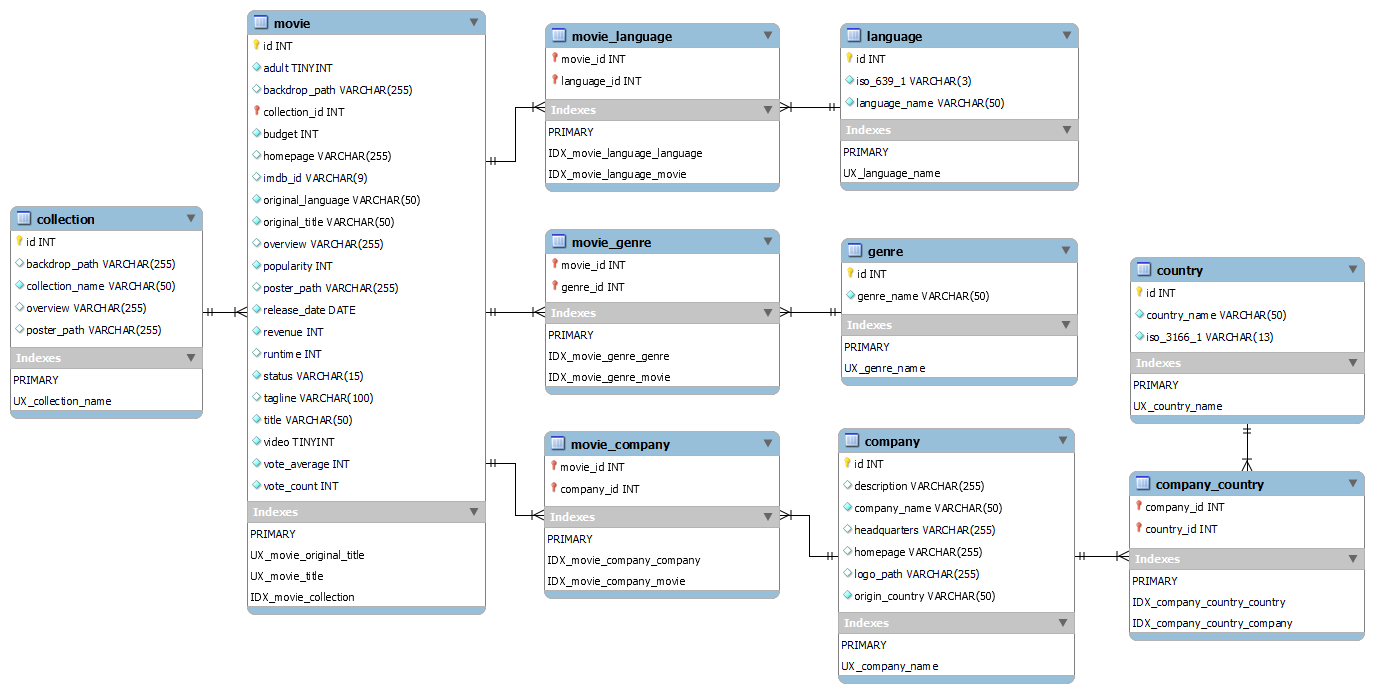
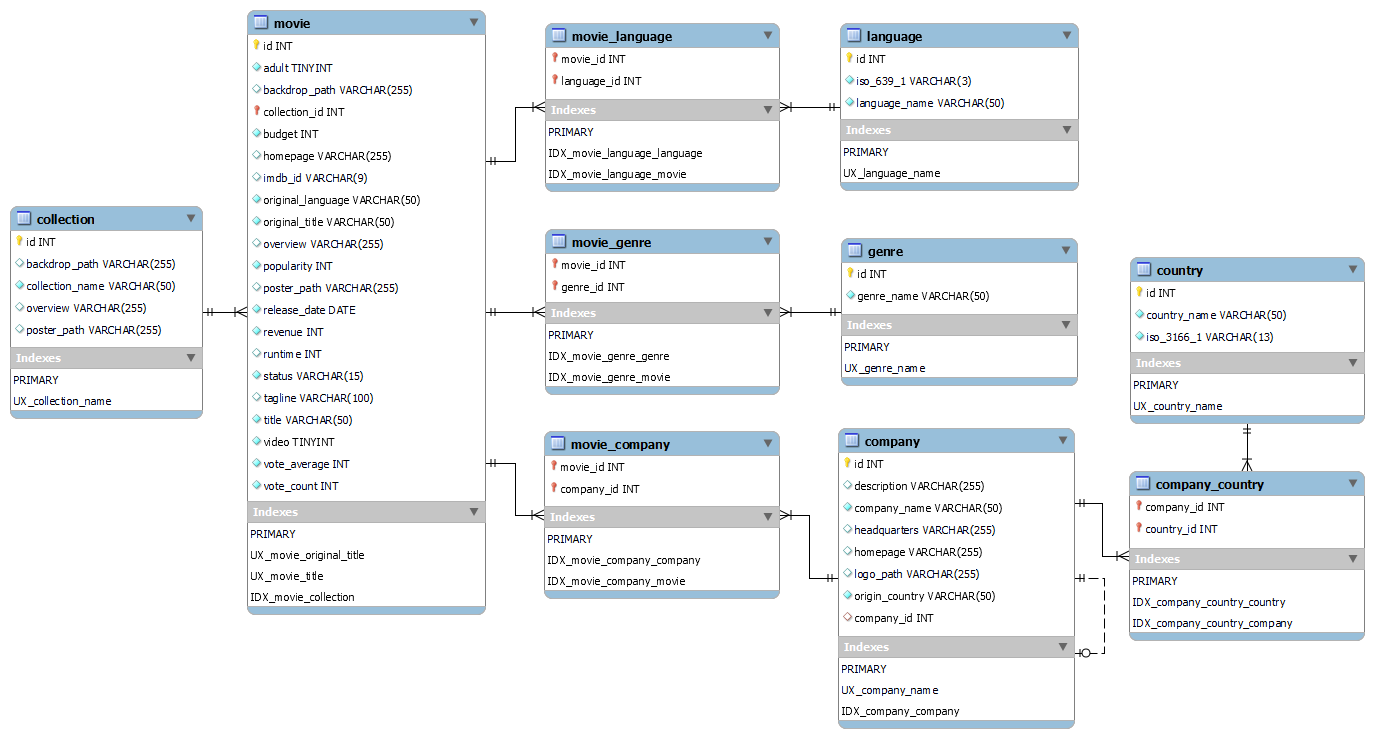
Minor update on database
- Add parent-child relation on company.
- Update inserts for movies and collections.

diff --git a/src/Repository/MovieRepository.php b/src/Repository/MovieRepository.php
@@ -42,7 +42,7 @@ class MovieRepository
     {
         try {
             $pdo = $this->connection->getPDO();
-            $query = "SELECT id, company_name, logo_path, origin_country FROM movie_db.company INNER JOIN movie_db.movie_company ON company.id = movie_company.company_id WHERE movie_id = ?;";
+            $query = "SELECT id, name, logo_path, origin_country FROM movie_db.company INNER JOIN movie_db.movie_company ON company.id = movie_company.company_id WHERE movie_id = ?;";
 
             $statement = $pdo->prepare($query);
             $statement->bindValue(1, $movie_id, \PDO::PARAM_INT);
@@ -64,7 +64,7 @@ class MovieRepository
     {
         try {
             $pdo = $this->connection->getPDO();
-            $query = "SELECT id, genre_name FROM movie_db.genre INNER JOIN movie_db.movie_genre ON genre.id = movie_genre.genre_id WHERE movie_id = ?;";
+            $query = "SELECT id, name FROM movie_db.genre INNER JOIN movie_db.movie_genre ON genre.id = movie_genre.genre_id WHERE movie_id = ?;";
 
             $statement = $pdo->prepare($query);
             $statement->bindValue(1, $movie_id, \PDO::PARAM_INT);
@@ -86,7 +86,7 @@ class MovieRepository
     {
         try {
             $pdo = $this->connection->getPDO();
-            $query = "SELECT iso_639_1, language_name FROM movie_db.language INNER JOIN movie_db.movie_language ON language.id = movie_language.language_id WHERE movie_id = ?;";
+            $query = "SELECT iso_639_1, name FROM movie_db.language INNER JOIN movie_db.movie_language ON language.id = movie_language.language_id WHERE movie_id = ?;";
 
             $statement = $pdo->prepare($query);
             $statement->bindValue(1, $movie_id, \PDO::PARAM_INT);

diff --git a/src/Service/Builder.php b/src/Service/Builder.php
@@ -40,7 +40,7 @@ class Builder
     protected function buildCompany(object $company): object
     {
         return (object)[
-            'name' => $company->company_name,
+            'name' => $company->name,
             'id' => $company->id,
             'logo_path' => $company->logo_path,
             'origin_country' => $company->origin_country
@@ -51,7 +51,7 @@ class Builder
     {
         return (object)[
             'iso_3166_1' => $country->iso_3166_1,
-            'name' => $country->country_name
+            'name' => $country->name
         ];
     }
 
@@ -59,7 +59,7 @@ class Builder
     {
         return (object)[
             'id' => $genre->id,
-            'name' => $genre->genre_name
+            'name' => $genre->name
         ];
     }
 
@@ -67,7 +67,7 @@ class Builder
     {
         return (object)[
             'iso_639_1' => $language->iso_639_1,
-            'name' => $language->language_name
+            'name' => $language->name
         ];
     }
 }

diff --git a/src/Repository/CompanyRepository.php b/src/Repository/CompanyRepository.php
@@ -19,7 +19,7 @@ class CompanyRepository
     {
         try {
             $pdo = $this->connection->getPDO();
-            $query = "SELECT iso_3166_1, country_name FROM movie_db.country INNER JOIN movie_db.company_country ON country.id = company_country.country_id WHERE company_id = ?;";
+            $query = "SELECT iso_3166_1, name FROM movie_db.country INNER JOIN movie_db.company_country ON country.id = company_country.country_id WHERE company_id = ?;";
 
             $statement = $pdo->prepare($query);
             $statement->bindValue(1, $company_id, \PDO::PARAM_INT);
